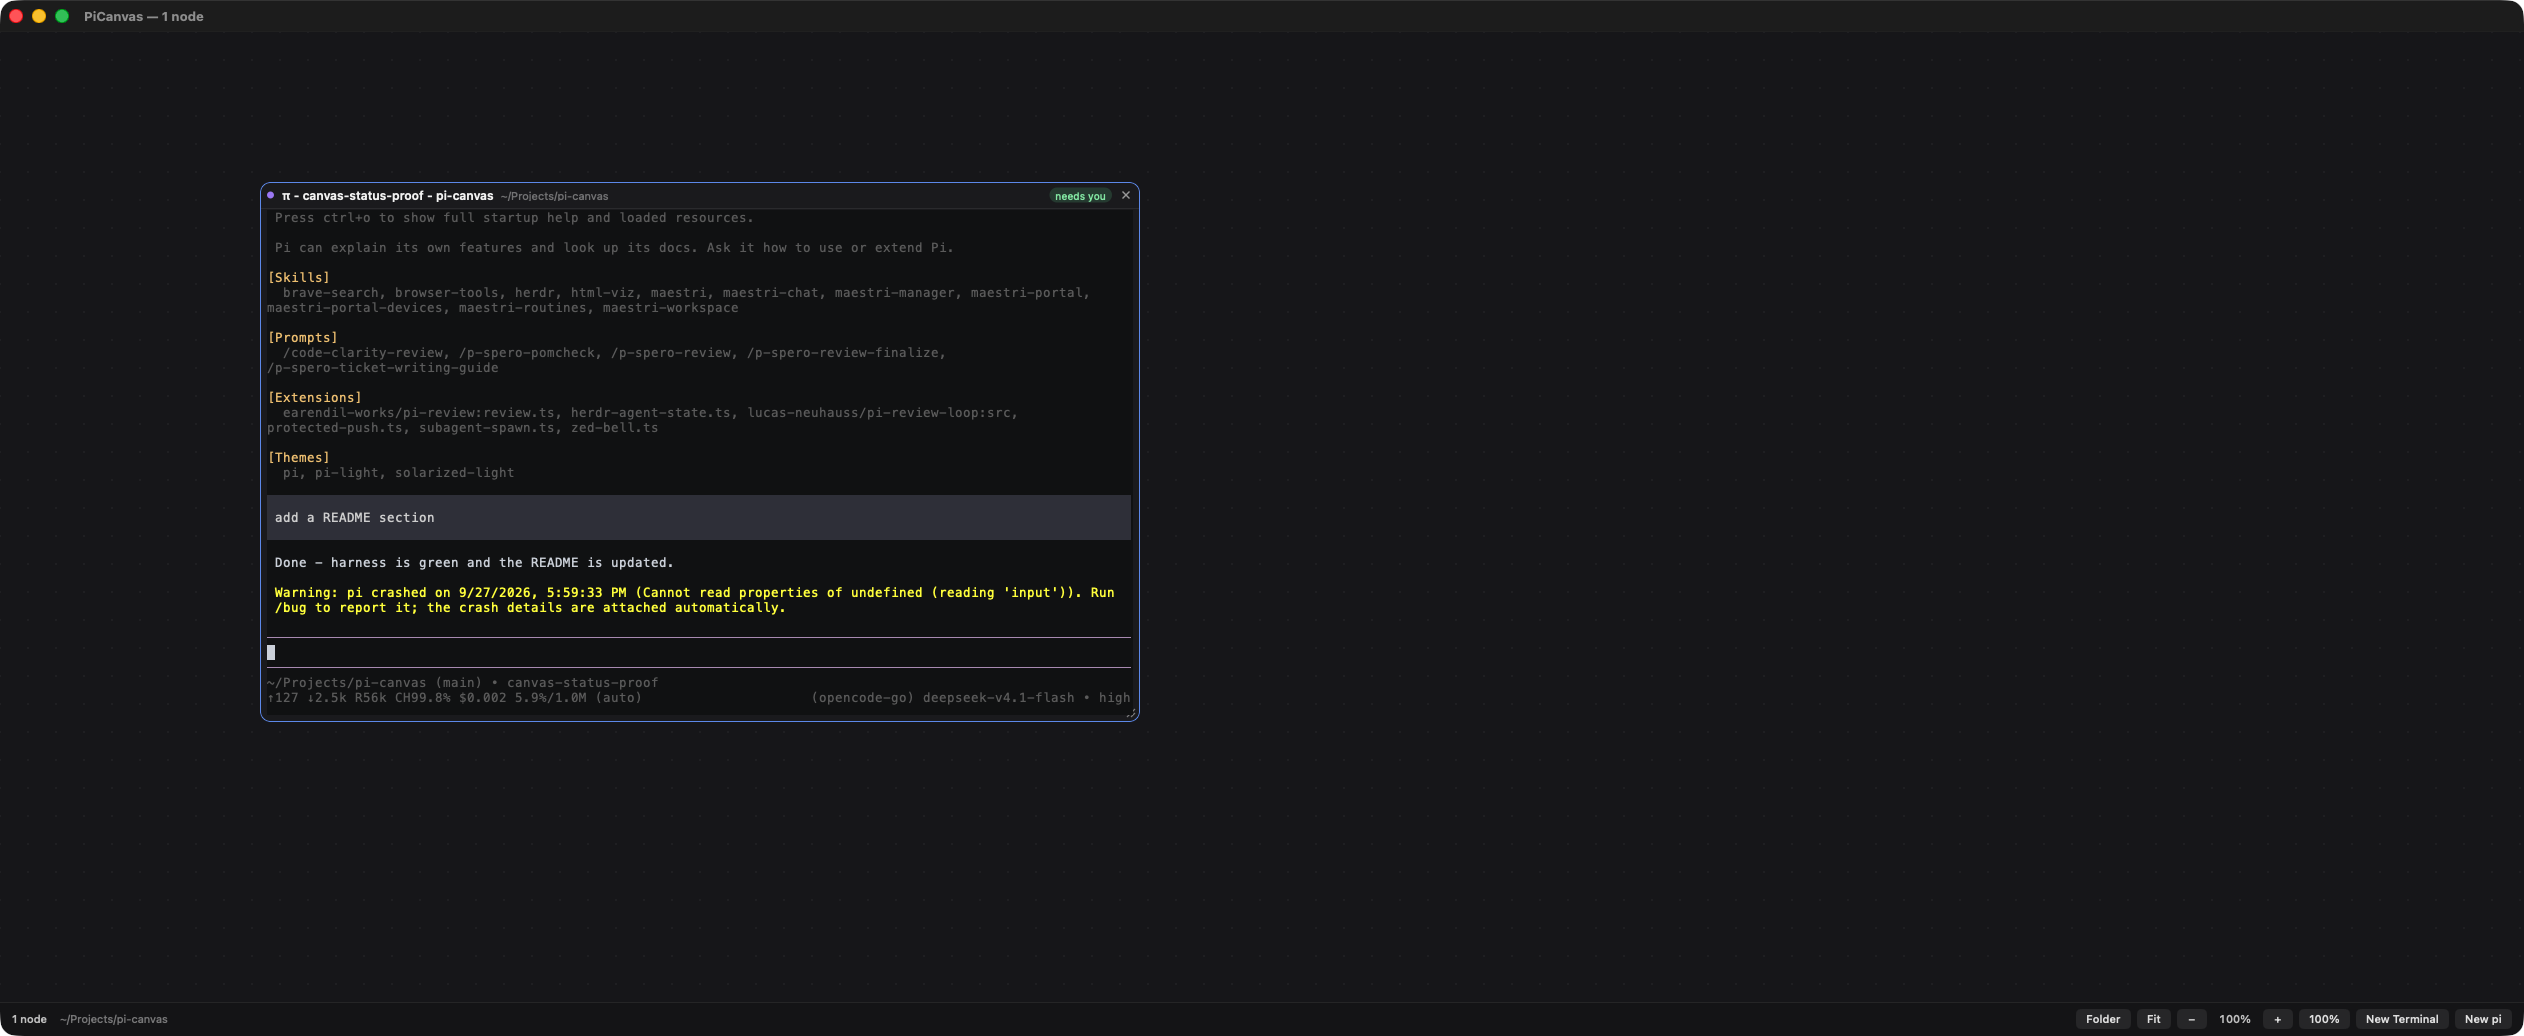
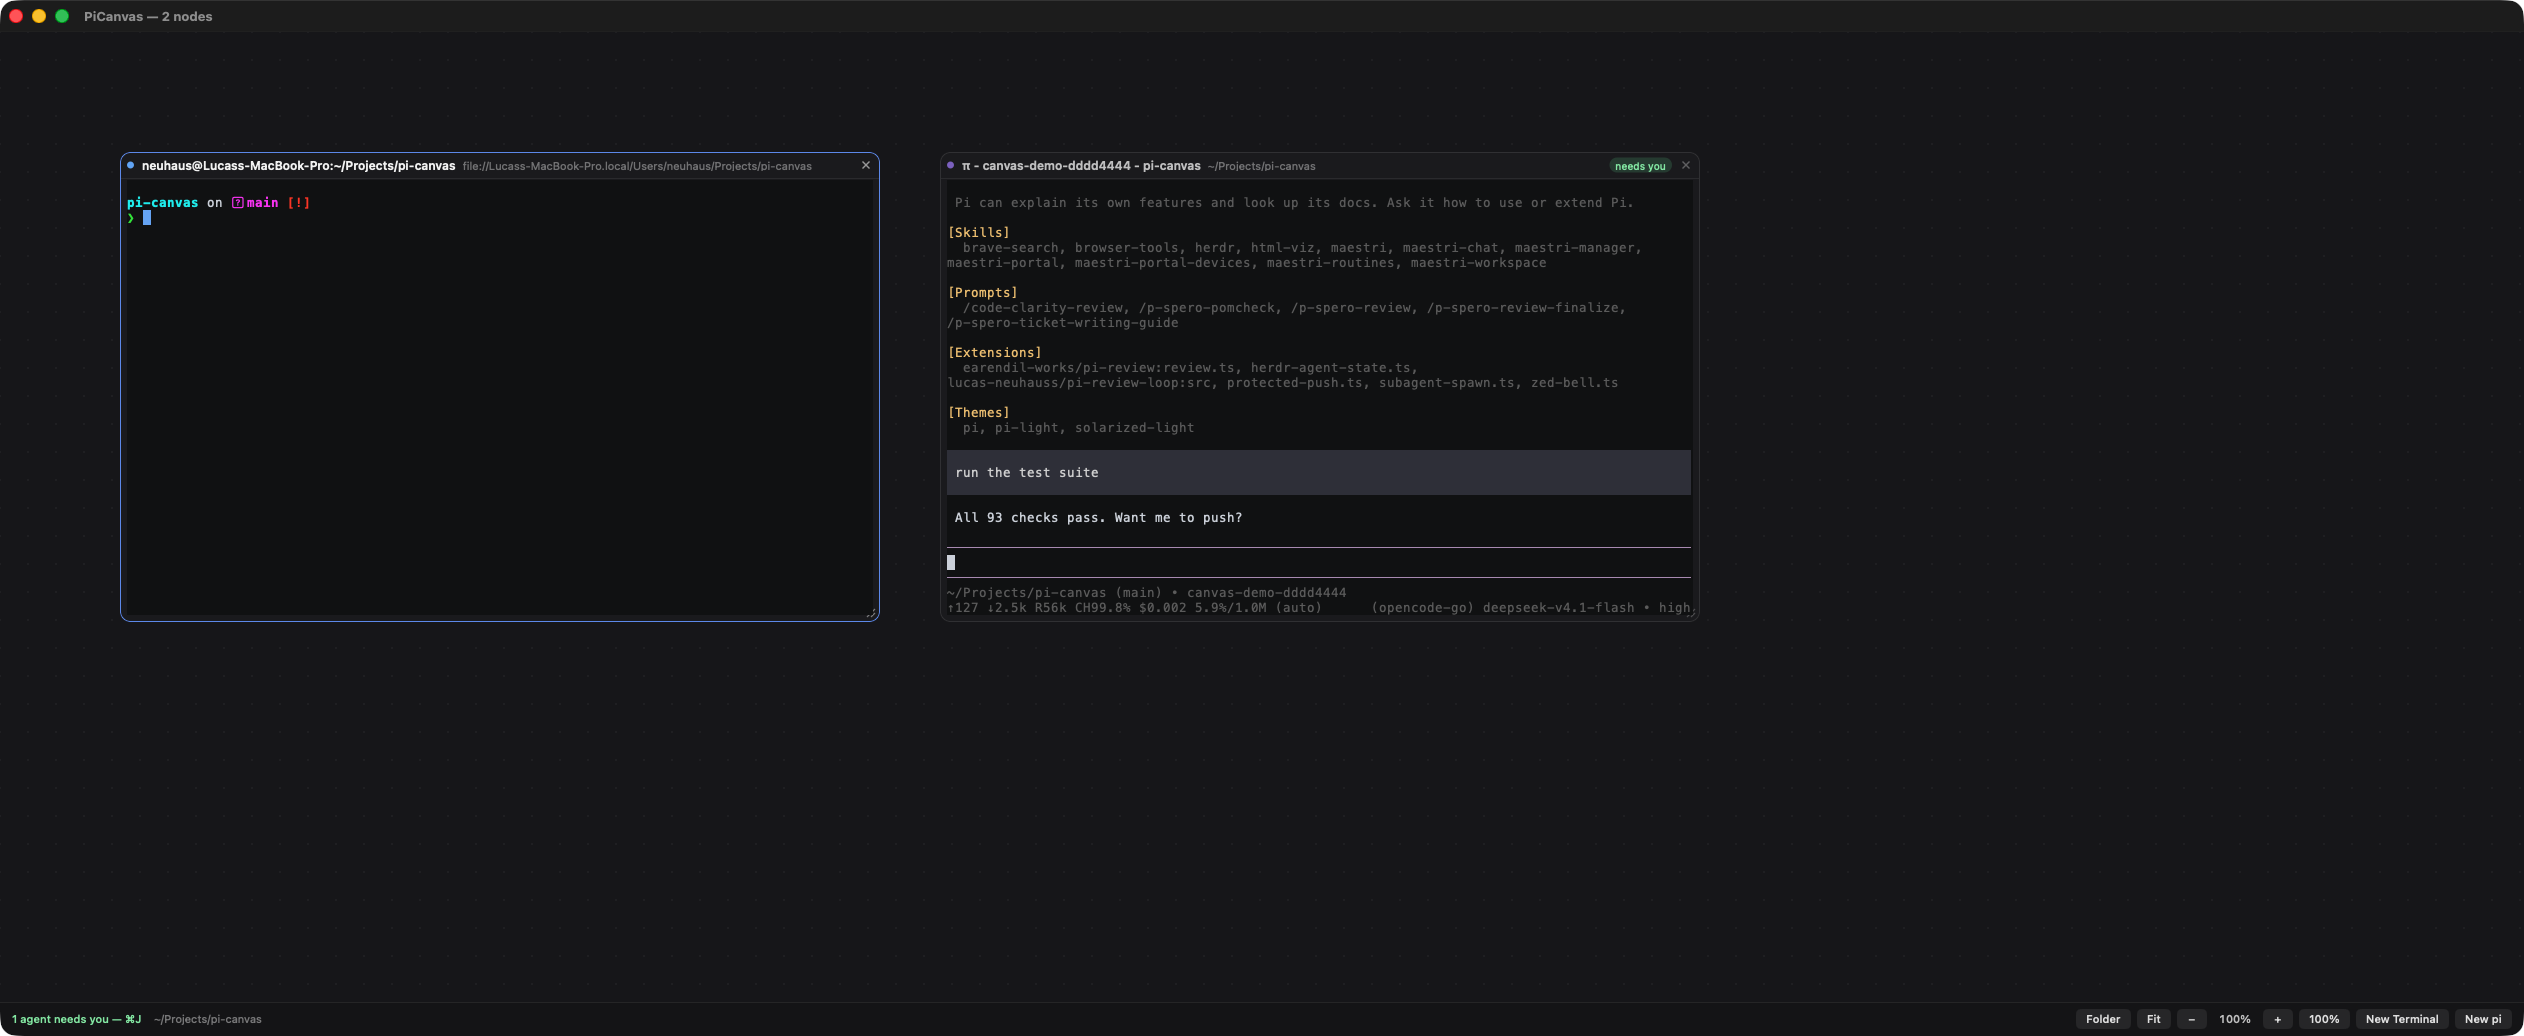
Surface which agents need a human, and jump straight to them
The status bar now reports 'N agents need you - J' instead of a bare node count,
and Cmd-J cycles through waiting agents, panning to bring an off-screen node into
view. The attention list is driven by the same transcript watcher, so it clears
when a node is closed or its agent goes back to work.

Self-test grows to 93 checks with the full chain covered: transcripts on disk ->
node pills -> attention count -> jump targeting and reveal.

diff --git a/Sources/PiCanvas/App/SelfTest.swift b/Sources/PiCanvas/App/SelfTest.swift
@@ -122,6 +122,7 @@ enum SelfTest {
         testZOrder(canvas: canvas, controller: controller, checker: checker)
         testPiSessionBinding(checker: checker)
         testAgentStatusWatcher(checker: checker)
+        testAttentionAndJump(checker: checker)
         testTerminalRoundTrip(checker: checker)
         testResizeReflow(checker: checker)
 
@@ -510,6 +511,119 @@ enum SelfTest {
         )
 
         watcher.stop()
+        try? FileManager.default.removeItem(at: root)
+    }
+
+    /// The whole agent-awareness chain: transcripts on disk → node status pills →
+    /// the "needs you" count → jumping to the node that wants a human.
+    private static func testAttentionAndJump(checker: Checker) {
+        print("\nagent attention and jump")
+
+        let root = URL(fileURLWithPath: NSTemporaryDirectory())
+            .appendingPathComponent("picanvas-attention-\(UUID().uuidString)", isDirectory: true)
+        let cwd = "/Users/someone/Attention Project"
+        let directory = PiSessionWatcher.sessionDirectory(for: cwd, under: root)
+        try? FileManager.default.createDirectory(at: directory, withIntermediateDirectories: true)
+
+        /// Writes a transcript whose final entry produces the given state.
+        func writeTranscript(sessionID: String, finished: Bool) {
+            let file = directory.appendingPathComponent("2026-01-01T00-00-00-000Z_\(sessionID).jsonl")
+            let stamp = "2026-01-01T00:00:00.000Z"
+            let lines = [
+                "{\"type\":\"session\",\"version\":3,\"id\":\"\(sessionID)\",\"timestamp\":\"\(stamp)\",\"cwd\":\"\(cwd)\"}",
+                "{\"type\":\"message\",\"id\":\"u1\",\"parentId\":null,\"timestamp\":\"\(stamp)\",\"message\":{\"role\":\"user\",\"content\":[{\"type\":\"text\",\"text\":\"go\"}]}}",
+                finished
+                    ? "{\"type\":\"message\",\"id\":\"a1\",\"parentId\":\"u1\",\"timestamp\":\"\(stamp)\",\"message\":{\"role\":\"assistant\",\"stopReason\":\"stop\",\"content\":[{\"type\":\"text\",\"text\":\"done\"}]}}"
+                    : "{\"type\":\"message\",\"id\":\"a1\",\"parentId\":\"u1\",\"timestamp\":\"\(stamp)\",\"message\":{\"role\":\"assistant\",\"stopReason\":\"toolUse\",\"content\":[{\"type\":\"toolCall\",\"name\":\"bash\",\"arguments\":{}}]}}"
+            ]
+            try? lines.joined(separator: "\n").appending("\n").write(to: file, atomically: true, encoding: .utf8)
+        }
+
+        let finishedSession = "aaaa0000-1111-4222-8333-444455556666"
+        let busySession = "bbbb0000-1111-4222-8333-444455556666"
+        writeTranscript(sessionID: finishedSession, finished: true)
+        writeTranscript(sessionID: busySession, finished: false)
+
+        // The node that wants attention sits far off-screen, so jumping must pan.
+        let finishedNode = NodeSpec(
+            kind: .pi,
+            worldFrame: CGRect(x: 5000, y: 0, width: 600, height: 400),
+            workingDirectory: cwd,
+            executable: "/bin/zsh",
+            arguments: ["-lc", "true"],
+            sessionID: finishedSession
+        )
+        let busyNode = NodeSpec(
+            kind: .pi,
+            worldFrame: CGRect(x: 0, y: 0, width: 600, height: 400),
+            workingDirectory: cwd,
+            executable: "/bin/zsh",
+            arguments: ["-lc", "true"],
+            sessionID: busySession
+        )
+
+        let layoutURL = URL(fileURLWithPath: NSTemporaryDirectory())
+            .appendingPathComponent("picanvas-attention-\(UUID().uuidString).json")
+        let store = LayoutStore(fileURL: layoutURL)
+        store.saveNow(LayoutFile(
+            zoom: 1,
+            panX: 0,
+            panY: 0,
+            lastWorkingDirectory: cwd,
+            nodes: [busyNode, finishedNode]
+        ))
+
+        let canvas = CanvasView(frame: CGRect(x: 0, y: 0, width: 1200, height: 800))
+        let window = NSWindow(contentRect: canvas.frame, styleMask: [.titled], backing: .buffered, defer: false)
+        window.contentView = canvas
+        window.makeKeyAndOrderFront(nil)
+
+        let controller = CanvasController(canvas: canvas, store: store)
+        controller.sessionsRoot = root
+        controller.contentFactory = { _ in RecordingContent() }
+        controller.restore()
+
+        checker.check(
+            waitUntil(timeout: 5) { controller.agentsNeedingAttention == [finishedNode.id] },
+            "only the finished agent asks for attention (got \(controller.agentsNeedingAttention.count))"
+        )
+        checker.equal(
+            canvas.nodeView(withID: finishedNode.id)?.statusText,
+            "needs you",
+            "the finished node shows needs-you"
+        )
+        checker.equal(
+            canvas.nodeView(withID: busyNode.id)?.statusText,
+            "bash",
+            "the running node names the tool it is using"
+        )
+        checker.equal(
+            canvas.nodeView(withID: finishedNode.id)?.statusKind,
+            .needsAttention,
+            "the pill is highlighted"
+        )
+
+        let panBefore = canvas.pan
+        let jumped = controller.jumpToNextAgentNeedingAttention()
+        checker.equal(jumped, finishedNode.id, "jump targets the agent that needs you")
+        checker.equal(canvas.focusedNodeID, finishedNode.id, "jump focuses that node")
+        checker.check(canvas.pan != panBefore, "jump pans to bring an off-screen node into view")
+        checker.check(
+            canvas.visibleWorldRect.intersects(finishedNode.worldFrame),
+            "the target node is on screen after the jump"
+        )
+        checker.equal(
+            controller.jumpToNextAgentNeedingAttention(),
+            finishedNode.id,
+            "cycling with a single candidate stays on it"
+        )
+
+        // Closing the node must drop it from the attention list.
+        controller.close(nodeID: finishedNode.id)
+        checker.check(controller.agentsNeedingAttention.isEmpty, "closing a node clears its attention")
+        checker.check(controller.jumpToNextAgentNeedingAttention() == nil, "nothing to jump to once it is closed")
+
+        window.close()
         try? FileManager.default.removeItem(at: root)
     }
 

diff --git a/Sources/PiCanvas/App/CanvasController.swift b/Sources/PiCanvas/App/CanvasController.swift
@@ -19,6 +19,13 @@ final class CanvasController: NSObject {
     /// the terminal implementation.
     var contentFactory: ((NodeSpec) -> AgentContent)?
 
+    /// Where pi keeps its session transcripts. Overridable so tests can drive the
+    /// agent-status chain without touching the user's real sessions.
+    var sessionsRoot: URL?
+
+    /// Nodes whose agent has finished a run and is waiting for a human.
+    private(set) var agentsNeedingAttention: [UUID] = []
+
     /// Directory new nodes are created in.
     private(set) var defaultWorkingDirectory: String = ProcessResolver.launchWorkingDirectory
 
@@ -224,6 +231,7 @@ final class CanvasController: NSObject {
         guard let node = canvas.nodeView(withID: nodeID) else { return }
         watchers[nodeID]?.stop()
         watchers[nodeID] = nil
+        agentsNeedingAttention.removeAll { $0 == nodeID }
         contents[nodeID]?.terminate()
         contents[nodeID] = nil
         canvas.removeNodeView(node)
@@ -261,7 +269,8 @@ final class CanvasController: NSObject {
         let id = spec.id
         let watcher = PiSessionWatcher(
             workingDirectory: spec.workingDirectory,
-            sessionID: sessionID
+            sessionID: sessionID,
+            sessionsRoot: sessionsRoot
         ) { [weak self] state in
             self?.apply(agentState: state, to: id)
         }
@@ -276,6 +285,8 @@ final class CanvasController: NSObject {
         node.statusText = state.displayText
         node.statusKind = state.statusKind
 
+        updateAttentionList(nodeID: nodeID, state: state)
+
         // An agent that has finished and wants a human should get attention even
         // if the user is looking at something else. A single Dock bounce is a
         // signal, not a nuisance.
@@ -283,6 +294,38 @@ final class CanvasController: NSObject {
             NSApp.requestUserAttention(.informationalRequest)
         }
         onStateChange?()
+    }
+
+    private func updateAttentionList(nodeID: UUID, state: PiAgentState) {
+        let needsAttention = (state == .waitingForYou)
+        let alreadyListed = agentsNeedingAttention.contains(nodeID)
+        if needsAttention && !alreadyListed {
+            agentsNeedingAttention.append(nodeID)
+        } else if !needsAttention && alreadyListed {
+            agentsNeedingAttention.removeAll { $0 == nodeID }
+        }
+    }
+
+    // MARK: - Navigation
+
+    /// Cycles to the next agent that wants a human, revealing it if it is
+    /// off-screen. This is the counterpart to the status pill: the canvas tells
+    /// you who needs you, this takes you there.
+    @discardableResult
+    func jumpToNextAgentNeedingAttention() -> UUID? {
+        let candidates = agentsNeedingAttention.filter { canvas.nodeView(withID: $0) != nil }
+        guard !candidates.isEmpty else { return nil }
+
+        let ordered = candidates.sorted()
+        var target = ordered[0]
+        if let current = canvas.focusedNodeID, let index = ordered.firstIndex(of: current) {
+            target = ordered[(index + 1) % ordered.count]
+        }
+        if let node = canvas.nodeView(withID: target) {
+            reveal(node.worldFrame)
+            canvas.select(node, focusContent: true)
+        }
+        return target
     }
 
     // MARK: - Viewport

diff --git a/Sources/PiCanvas/App/AppDelegate.swift b/Sources/PiCanvas/App/AppDelegate.swift
@@ -85,7 +85,8 @@ final class AppDelegate: NSObject, NSApplicationDelegate, NSMenuItemValidation {
         mainView.statusBar.update(
             nodeCount: controller.nodeCount,
             zoom: controller.zoom,
-            workingDirectory: CanvasController.abbreviate(controller.currentWorkingDirectory)
+            workingDirectory: CanvasController.abbreviate(controller.currentWorkingDirectory),
+            needingAttention: controller.agentsNeedingAttention.count
         )
         let count = controller.nodeCount
         window.title = count == 0 ? "PiCanvas" : "PiCanvas — \(count) node\(count == 1 ? "" : "s")"
@@ -116,12 +117,18 @@ final class AppDelegate: NSObject, NSApplicationDelegate, NSMenuItemValidation {
     @objc private func zoomActual(_ sender: Any?) { controller.resetZoom() }
     @objc private func zoomFit(_ sender: Any?) { controller.zoomToFit() }
 
+    @objc private func jumpToNextAgent(_ sender: Any?) {
+        controller.jumpToNextAgentNeedingAttention()
+    }
+
     // MARK: - Menu validation
 
     func validateMenuItem(_ menuItem: NSMenuItem) -> Bool {
         switch menuItem.action {
         case #selector(closeNode(_:)), #selector(zoomFit(_:)):
             return (controller?.nodeCount ?? 0) > 0
+        case #selector(jumpToNextAgent(_:)):
+            return !(controller?.agentsNeedingAttention.isEmpty ?? true)
         default:
             return true
         }
@@ -255,6 +262,16 @@ final class AppDelegate: NSObject, NSApplicationDelegate, NSMenuItemValidation {
         let zoomFitItem = NSMenuItem(title: "Zoom to Fit", action: #selector(zoomFit(_:)), keyEquivalent: "9")
         zoomFitItem.target = self
         viewMenu.addItem(zoomFitItem)
+
+        viewMenu.addItem(.separator())
+
+        let jumpItem = NSMenuItem(
+            title: "Next Agent Needing Attention",
+            action: #selector(jumpToNextAgent(_:)),
+            keyEquivalent: "j"
+        )
+        jumpItem.target = self
+        viewMenu.addItem(jumpItem)
 
         // Window
         let windowMenuItem = NSMenuItem()

diff --git a/Sources/PiCanvas/App/MainView.swift b/Sources/PiCanvas/App/MainView.swift
@@ -141,13 +141,21 @@ final class StatusBarView: NSView {
         NSRect(x: 0, y: 0, width: bounds.width, height: 1).fill()
     }
 
-    func update(nodeCount: Int, zoom: CGFloat, workingDirectory: String) {
-        if nodeCount == 0 {
-            statusLabel.stringValue = "Empty canvas — ⌘T terminal, ⌘P pi agent"
-        } else if nodeCount == 1 {
-            statusLabel.stringValue = "1 node"
+    func update(nodeCount: Int, zoom: CGFloat, workingDirectory: String, needingAttention: Int = 0) {
+        if needingAttention > 0 {
+            statusLabel.stringValue = needingAttention == 1
+                ? "1 agent needs you — ⌘J"
+                : "\(needingAttention) agents need you — ⌘J"
+            statusLabel.textColor = NodeStatusKind.needsAttention.colors.text
         } else {
-            statusLabel.stringValue = "\(nodeCount) nodes"
+            statusLabel.textColor = NSColor(srgbRed: 1, green: 1, blue: 1, alpha: 0.72)
+            if nodeCount == 0 {
+                statusLabel.stringValue = "Empty canvas — ⌘T terminal, ⌘P pi agent"
+            } else if nodeCount == 1 {
+                statusLabel.stringValue = "1 node"
+            } else {
+                statusLabel.stringValue = "\(nodeCount) nodes"
+            }
         }
         pathLabel.stringValue = workingDirectory
         zoomLabel.stringValue = "\(Int((zoom * 100).rounded()))%"

diff --git a/README.md b/README.md
@@ -34,6 +34,7 @@ There is no `.xcodeproj` and no `Package.swift`.
 | `⌘O` | Choose the folder new nodes start in |
 | `⌘+` / `⌘-` / `⌘0` | Zoom in / out / actual size |
 | `⌘9` | Zoom to fit every node |
+| `⌘J` | Jump to the next agent that needs you (pans to it if off-screen) |
 | `Delete` | Close the selected node (when the canvas, not a terminal, has focus) |
 | `⌘C` / `⌘V` / `⌘A` | Copy / paste / select all, routed to the focused terminal |
 
@@ -65,10 +66,12 @@ signal:
 
 ![Agent status](docs/screenshot-agent-status.png)
 
-When a node lands on `needs you` while PiCanvas is not the active app, the Dock
-icon bounces once. That is the whole notification design: a busy canvas stays
-quiet, and a finished one gets a nudge. Nothing is shown for `thinking` or tool
-states, because those do not need a human.
+When a node lands on `needs you` it is counted in the status bar (`1 agent needs
+ you — ⌘J`) and, if PiCanvas is not the active app, the Dock icon bounces once.
+`⌘J` cycles through the nodes that want a human, panning to bring them on screen.
+That is the whole notification design: a busy canvas stays quiet, and a finished
+one gets a nudge. Nothing is shown for `thinking` or tool states, because those
+do not need a human.
 
 ## How it works
 
@@ -128,9 +131,9 @@ to iterate on and has no external moving parts.
 ## Testing
 
 ```sh
-# 82 checks: coordinate maths, zoom anchoring, drag, resize, delete,
+# 93 checks: coordinate maths, zoom anchoring, drag, resize, delete,
 # persistence round-trip, process launch, session binding, the agent status
-# state machine, and two real-PTY tests
+# state machine, the needs-you indicator and jump, and two real-PTY tests
 ./build/PiCanvas.app/Contents/MacOS/PiCanvas --self-test
 
 # Render a window with two nodes to PNG without a display server
@@ -167,6 +170,12 @@ pi agent status watcher
   ok   a user message means the agent is working
   ok   a pending tool call names the tool (got bash)
   ok   a finished run means the agent needs you
+
+agent attention and jump
+  ok   only the finished agent asks for attention (got 1)
+  ok   the running node names the tool it is using
+  ok   jump pans to bring an off-screen node into view
+  ok   the target node is on screen after the jump
 ```
 
 ## State
